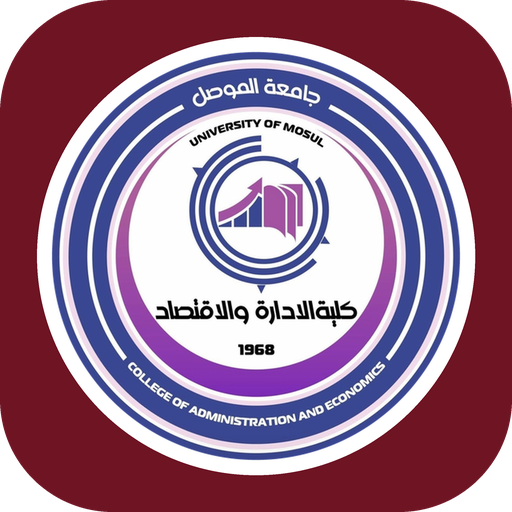
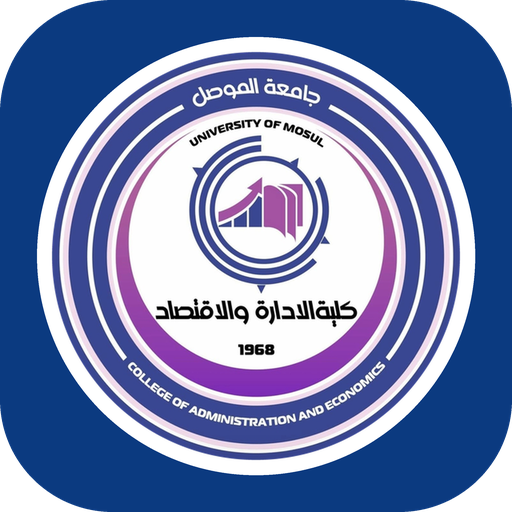
ألوان بيضاء وزرقاء بتباين عالٍ ونصوص أوضح وأكبر
Claude-Session: https://claude.ai/code/session_01HZRomheh2wPijjWUNFiQZc

diff --git a/app.css b/app.css
@@ -1,25 +1,25 @@
 /* حقيبة الحاسوب — لوحة دوائر: أرضية نقطية، أزرق مخضر للشبكات، كهرماني للتنبيه */
-/* هوية مارونية: ماروني عميق على أبيض نقي، بلمسات وردية فاتحة */
+/* أبيض وأزرق بتباين عالٍ: نص شبه أسود على أبيض، وأزرق جامعي عميق للعناصر */
 :root{
-  --bg:#FBF7F8; --surf:#FFFFFF; --surf2:#F6ECEE; --line:#EAD6DA; --ink:#2A1015; --mute:#6B4C52;
-  --acc:#7A1E2C; --accs:#F7E7EA; --onacc:#FFFFFF; --amb:#C25B6E; --ambs:#FBEEF0;
-  --ai:#9E2F45; --ais:#F9E8EC; --good:#1F7A3E; --goods:#DDF1E3; --bad:#B3321F; --bads:#F8E0DA;
-  --tk:#2A1015; --navy:#6E1423; --navy2:#520E1A; --gold:#F1D3D9; --onnavy:#FFFFFF;
+  --bg:#F4F7FC; --surf:#FFFFFF; --surf2:#E9F0FB; --line:#C9D6EC; --ink:#0A1428; --mute:#33415C;
+  --acc:#0B4AA2; --accs:#E3EDFC; --onacc:#FFFFFF; --amb:#1D63C4; --ambs:#E6F0FE;
+  --ai:#0A3F8C; --ais:#E1EBFA; --good:#0E5424; --goods:#DDF1E3; --bad:#861A10; --bads:#FBE3DE;
+  --tk:#0A1428; --navy:#0B3A80; --navy2:#082C62; --gold:#DCE8FA; --onnavy:#FFFFFF;
   --f-disp:"Cairo","IBM Plex Sans Arabic","Segoe UI",Tahoma,sans-serif;
   --f-body:"IBM Plex Sans Arabic","Segoe UI",Tahoma,sans-serif;
   --f-mono:"JetBrains Mono",Consolas,"Courier New",monospace;
   --r:14px;
 }
 @media (prefers-color-scheme:dark){:root:not([data-theme="light"]){
-  --bg:#17080C; --surf:#231015; --surf2:#30161D; --line:#4A2530; --ink:#F7EDEF; --mute:#CDB1B7;
-  --acc:#EE9AA8; --accs:#3A1820; --onacc:#2A0B11; --amb:#E58595; --ambs:#3A1820;
-  --ai:#F3B4BF; --ais:#38171F; --good:#5BCB82; --goods:#14301F; --bad:#FF8A73; --bads:#3A1C16;
-  --tk:#2A0B11; --navy:#5C1020; --navy2:#3D0914; --gold:#F1D3D9; color-scheme:dark}}
+  --bg:#08111F; --surf:#0F1C33; --surf2:#162845; --line:#2C4470; --ink:#F4F8FF; --mute:#D0DBEE;
+  --acc:#9CC8FF; --accs:#14305A; --onacc:#06142B; --amb:#7DB4FF; --ambs:#142C52;
+  --ai:#B9D8FF; --ais:#14305A; --good:#6FD995; --goods:#123321; --bad:#FF9C88; --bads:#3D1A14;
+  --tk:#06142B; --navy:#0B3A80; --navy2:#072859; --gold:#DCE8FA; color-scheme:dark}}
 :root[data-theme="dark"]{
-  --bg:#17080C; --surf:#231015; --surf2:#30161D; --line:#4A2530; --ink:#F7EDEF; --mute:#CDB1B7;
-  --acc:#EE9AA8; --accs:#3A1820; --onacc:#2A0B11; --amb:#E58595; --ambs:#3A1820;
-  --ai:#F3B4BF; --ais:#38171F; --good:#5BCB82; --goods:#14301F; --bad:#FF8A73; --bads:#3A1C16;
-  --tk:#2A0B11; --navy:#5C1020; --navy2:#3D0914; --gold:#F1D3D9; color-scheme:dark}
+  --bg:#08111F; --surf:#0F1C33; --surf2:#162845; --line:#2C4470; --ink:#F4F8FF; --mute:#D0DBEE;
+  --acc:#9CC8FF; --accs:#14305A; --onacc:#06142B; --amb:#7DB4FF; --ambs:#142C52;
+  --ai:#B9D8FF; --ais:#14305A; --good:#6FD995; --goods:#123321; --bad:#FF9C88; --bads:#3D1A14;
+  --tk:#06142B; --navy:#0B3A80; --navy2:#072859; --gold:#DCE8FA; color-scheme:dark}
 
 *{box-sizing:border-box}
 [hidden]{display:none!important}
@@ -309,7 +309,7 @@ svg .b{fill:var(--surf2)} svg .a{fill:var(--acc)} svg .m{fill:var(--amb)} svg .k
 svg .sec .b{fill:var(--surf)}
 .ill svg .b{fill:var(--surf)}
 svg text{font-family:var(--f-body);stroke:none}
-svg .tx{fill:var(--ink)} svg .tk{fill:var(--tk)} svg .tb{fill:var(--bg)} svg .tm{fill:var(--ink);font-family:var(--f-mono)}
+svg .tx{fill:var(--ink)} svg .tk{fill:var(--onacc)} svg .tb{fill:var(--bg)} svg .tm{fill:var(--ink);font-family:var(--f-mono)}
 .chcard.ai .ic svg .a,.chhead.ai svg .a{fill:var(--ai)}
 
 /* ===== هوية الجامعة ===== */
@@ -421,3 +421,24 @@ h1,h2,h3{font-weight:700;letter-spacing:0}
 .footlogo,.logo{box-shadow:0 0 0 2px var(--gold)}
 .btn.amb{background:var(--surf);color:var(--acc);box-shadow:inset 0 0 0 2px var(--acc)}
 .hero .eyebrow{color:var(--gold)}
+
+/* وضوح النص */
+body{font-size:17px;line-height:1.8;-webkit-font-smoothing:antialiased}
+.small{font-size:.92rem}
+.mute{color:var(--mute)}
+.hero p,.hero .eyebrow,.stat span{opacity:1}
+.hero p{color:#E8F0FF}
+.stat span{color:#DCE8FA}
+.chcard .tx span,.dev p,.tool span,.notif .ntx span,.cm .meta,.qtop,.foot{color:var(--mute)}
+.chcard .tx span{font-size:.86rem}
+.dev p{font-size:.84rem}
+.tool span{font-size:.84rem}
+table{font-size:.92rem}
+th{font-size:.86rem;color:var(--ink)}
+.pts li,.steps li{font-size:1rem}
+.tab{font-size:.95rem;font-weight:500}
+.nav button{font-size:.78rem;color:var(--mute);font-weight:500}
+.nav button[aria-current="page"]{font-weight:700}
+.opt{font-size:1rem}
+.btn{font-size:1rem}
+.chcard.ai .ic .num{background:var(--surf);color:var(--ai);border-color:var(--ai)}

diff --git a/index.html b/index.html
@@ -6,7 +6,7 @@
 <title>حقيبة الحاسوب</title>
 <meta name="claude:viewport-fit-sides" content="cover">
 <meta name="description" content="تطبيقات إدارية باستخدام الحاسوب — المرحلة الثانية، قسم إدارة الأعمال. تصميم وبرمجة: الأستاذ علي الصفار">
-<meta name="theme-color" content="#6E1423">
+<meta name="theme-color" content="#0B3A80">
 <meta name="apple-mobile-web-app-capable" content="yes">
 <meta name="mobile-web-app-capable" content="yes">
 <meta name="apple-mobile-web-app-title" content="حقيبة الحاسوب">
@@ -19,7 +19,7 @@
 <link rel="preload" as="style" href="https://fonts.googleapis.com/css2?family=Cairo:wght@600;700&family=IBM+Plex+Sans+Arabic:wght@400;500;600&family=JetBrains+Mono:wght@500&display=swap">
 <link rel="stylesheet" href="https://fonts.googleapis.com/css2?family=Cairo:wght@600;700&family=IBM+Plex+Sans+Arabic:wght@400;500;600&family=JetBrains+Mono:wght@500&display=swap" media="print" onload="this.media='all'">
 <noscript><link rel="stylesheet" href="https://fonts.googleapis.com/css2?family=Cairo:wght@600;700&family=IBM+Plex+Sans+Arabic:wght@400;500;600&family=JetBrains+Mono:wght@500&display=swap"></noscript>
-<style>html,body{background:#FBF7F8;color:#2A1015;margin:0}@media (prefers-color-scheme:dark){html,body{background:#17080C;color:#F7EDEF}}#boot{min-height:100vh;display:grid;place-items:center;align-content:center;gap:14px;font-family:Tahoma,sans-serif;text-align:center}#boot img{width:96px;height:96px;border-radius:50%;background:#fff;box-shadow:0 0 0 3px #7A1E2C}</style>
+<style>html,body{background:#F4F7FC;color:#0A1428;margin:0}@media (prefers-color-scheme:dark){html,body{background:#08111F;color:#F4F8FF}}#boot{min-height:100vh;display:grid;place-items:center;align-content:center;gap:14px;font-family:Tahoma,sans-serif;text-align:center}#boot img{width:96px;height:96px;border-radius:50%;background:#fff;box-shadow:0 0 0 3px #0B4AA2}</style>
 <link rel="stylesheet" href="app.css">
 </head>
 <body>

diff --git a/app.js b/app.js
@@ -568,7 +568,7 @@
       case 'bell': S.sheet = { type: 'notif', seen: lsGet('seenTs', '') }; var top = notifItems()[0]; lsSet('seenTs', top && top.ts ? top.ts : new Date().toISOString()); render(); break;
       case 'notifgo': S.sheet = null; if (d.t === 'hw') { go('hw'); loadMine(); } else { go('home'); } break;
       case 'askperm': try { Notification.requestPermission().then(function (r) { if (r === 'granted') { lsSet('notifiedTs', (notifItems()[0] || {}).ts || new Date().toISOString()); toast('تم تفعيل الإشعارات'); } render(); }); } catch (e) { } break;
-      case 'theme': var nt = curTheme() === 'dark' ? 'light' : 'dark'; document.documentElement.setAttribute('data-theme', nt); lsSet('theme', nt); var mc = document.querySelector('meta[name=theme-color]'); if (mc) mc.setAttribute('content', nt === 'dark' ? '#5C1020' : '#6E1423'); render(); break;
+      case 'theme': var nt = curTheme() === 'dark' ? 'light' : 'dark'; document.documentElement.setAttribute('data-theme', nt); lsSet('theme', nt); var mc = document.querySelector('meta[name=theme-color]'); if (mc) mc.setAttribute('content', nt === 'dark' ? '#072859' : '#0B3A80'); render(); break;
       case 'open': go('chapter', { ch: +d.ch, tab: 'sum' }); break;
       case 'tab': S.tab = d.t; render(); window.scrollTo(0, 0); break;
       case 'startq': var c = CH[+d.ch - 1]; buildQuiz(shuffle(mk(c)), 'اختبار الفصل ' + c.n, c.n); break;

diff --git a/sw.js b/sw.js
@@ -1,5 +1,5 @@
 /* يحفظ ملفات التطبيق ليعمل دون إنترنت؛ بيانات قاعدة البيانات لا تُحفظ هنا */
-var C = 'c2-v9';
+var C = 'c2-v10';
 var FILES = ['./', 'index.html', 'app.css', 'config.js', 'data1.js', 'data2.js', 'art.js', 'app.js', 'manifest.json', 'icons/icon-192.png', 'icons/icon-512.png', 'icons/apple-touch-icon.png', 'icons/college-logo.png', 'icons/college-logo-160.png', 'icons/college-mark-white.png'];
 self.addEventListener('install', function (e) { e.waitUntil(caches.open(C).then(function (c) { return c.addAll(FILES); })); self.skipWaiting(); });
 self.addEventListener('activate', function (e) { e.waitUntil(caches.keys().then(function (k) { return Promise.all(k.filter(function (x) { return x !== C; }).map(function (x) { return caches.delete(x); })); })); self.clients.claim(); });
